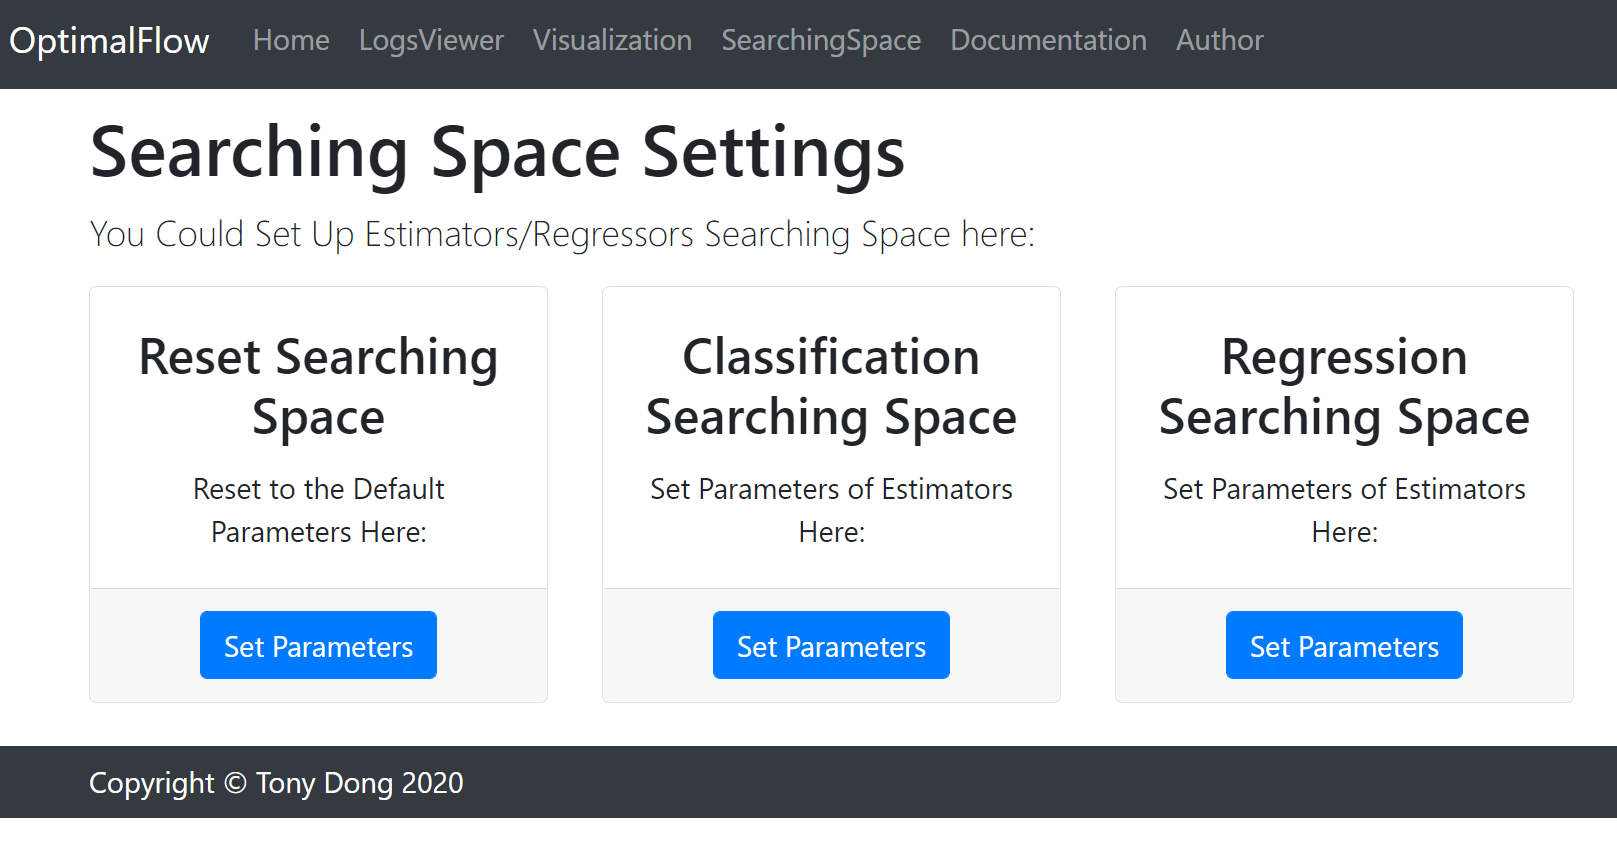
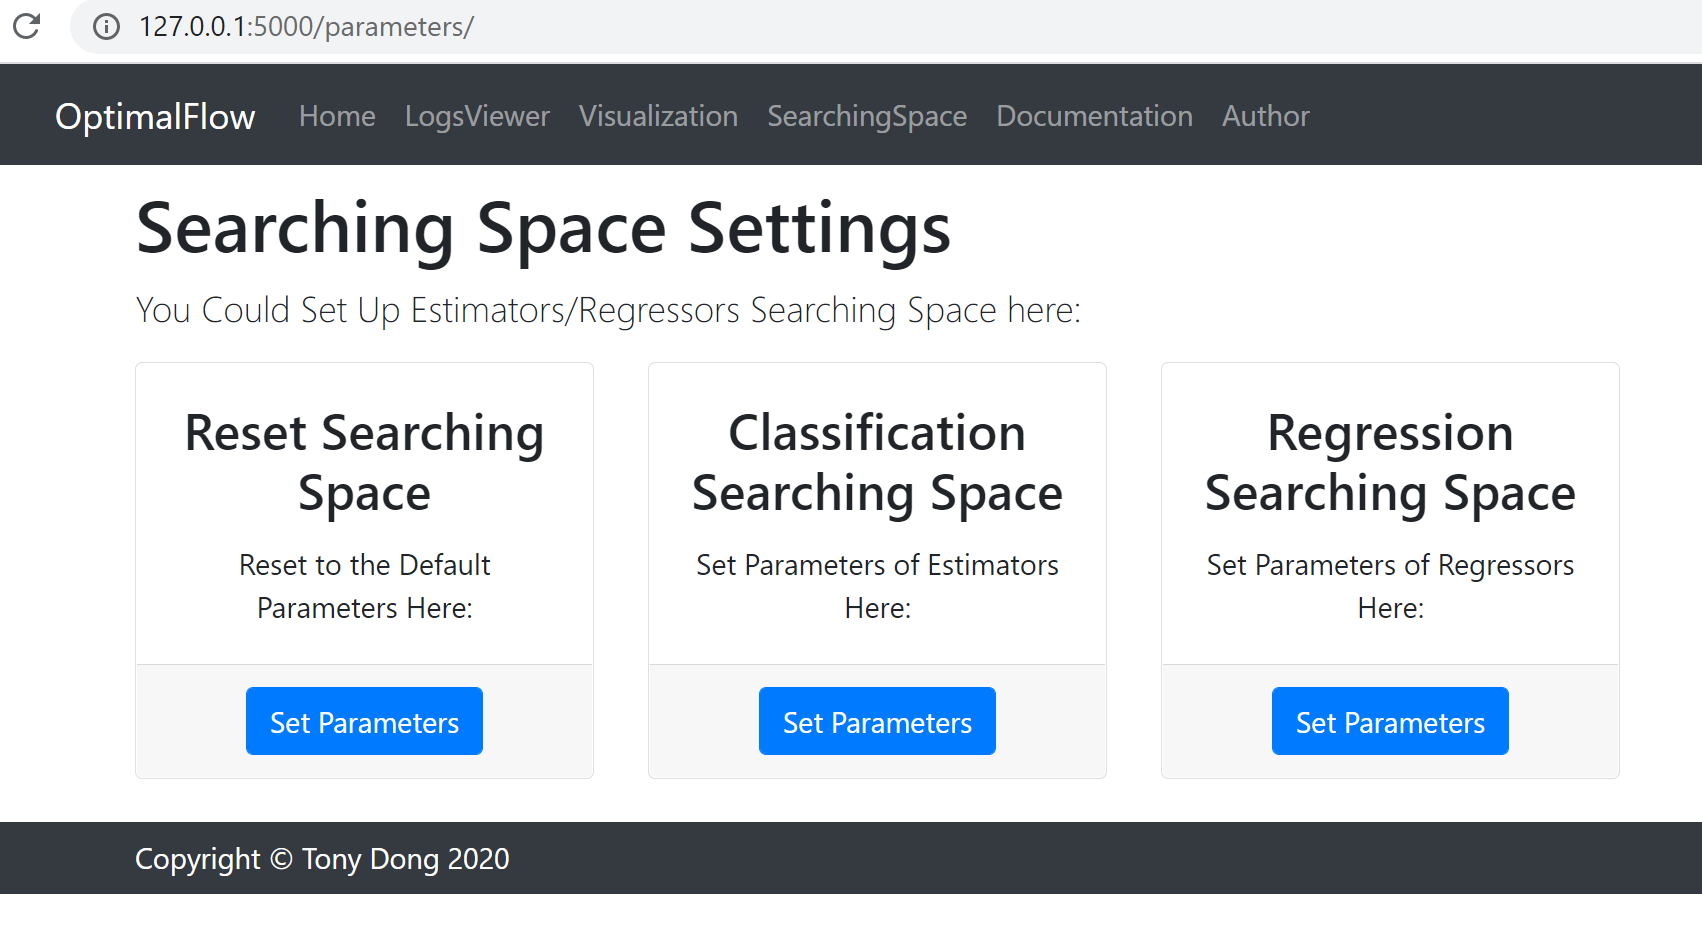
Release Version 0.1.11

diff --git a/tests/webapp/templates/parameters.html b/tests/webapp/templates/parameters.html
@@ -134,7 +134,7 @@
         <div class="card h-100">
             <div class="card-body">
             <h3 class="card-title">Regression Searching Space</h3>
-            <p class="card-text">Set Parameters of Estimators Here:</p>
+            <p class="card-text">Set Parameters of Regressors Here:</p>
             </div>
             <div class="card-footer">
             <div class="modal fade" id="modalParaRegressor" tabindex="-1" role="dialog" aria-labelledby="myModalLabel1"
